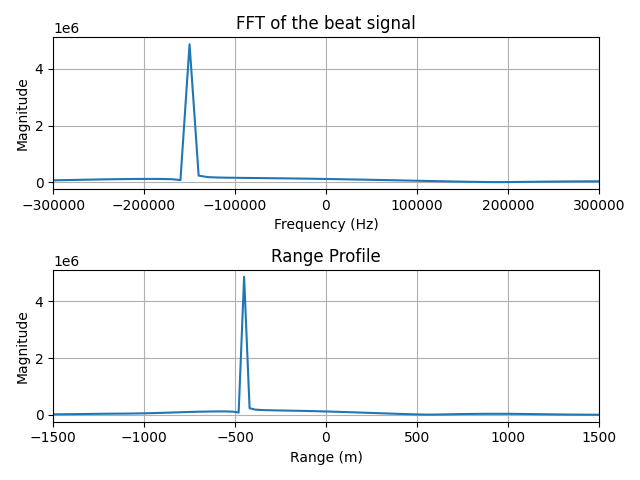
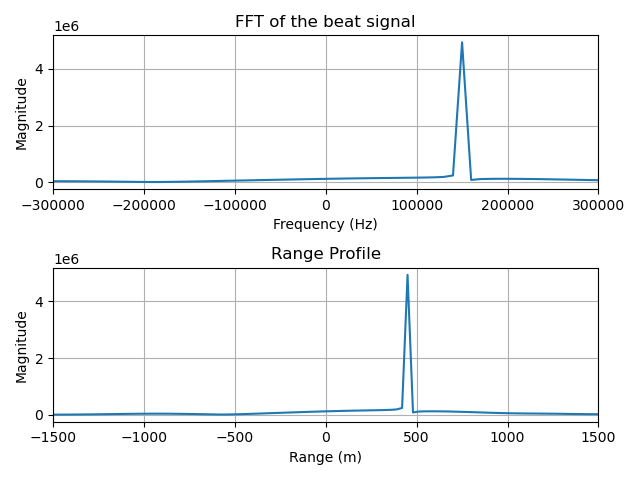
flip ze axis

diff --git a/lab5/lab5_ex5.py b/lab5/lab5_ex5.py
@@ -24,7 +24,7 @@ tx_gain = -10
 rx_gain = 10
 
 # Radar waveform parameters
-B = 25e6
+B = 5e6
 T = 100e-6
 f0 = 2.5e9
 fs = PlutoSamprate
@@ -57,7 +57,7 @@ plt.ylabel("Amplitude")
 plt.grid()
 plt.show()
 
-beat_signal = added_result * np.conj(sig_A)
+beat_signal = np.conj(added_result) * sig_A
 beat_signal = lowpass_filter(beat_signal, fs, cutoff=400e3)
 beat_fft = np.fft.fftshift(np.fft.fft(beat_signal))
 freq_axis = np.fft.fftshift(np.fft.fftfreq(len(beat_signal), d=1/fs))
@@ -84,7 +84,7 @@ plt.show()
 
 ##adding zero padding to improve range resolution
 
-beat_signal = added_result * np.conj(sig_A)
+beat_signal = np.conj(added_result) * sig_A
 beat_signal = lowpass_filter(beat_signal, fs, cutoff=400e3)
 zero_pad_factor = 5
 nfft = len(beat_signal) * zero_pad_factor

diff --git a/lab5/lab5ex1.py b/lab5/lab5ex1.py
@@ -66,7 +66,7 @@ print(f"The model with the highest SNR is model {max_SNR_model}")
 
 alpha = 0.05 # dB/km attenuation
 
-total_att_dB = alpha * 2 * R/1e3
+total_att_dB = alpha * R/1e3
 
 L_s = to_linear(total_att_dB)
 print(f"L_s = {L_s}")
@@ -74,10 +74,3 @@ print(f"L_s = {L_s}")
 n_p = int(np.ceil(L_s))
 
 print(f"The amount of pulses needed to compensate for the atmospheric propagation losses is: {n_p}")
-
-
-
-
-
-
-
